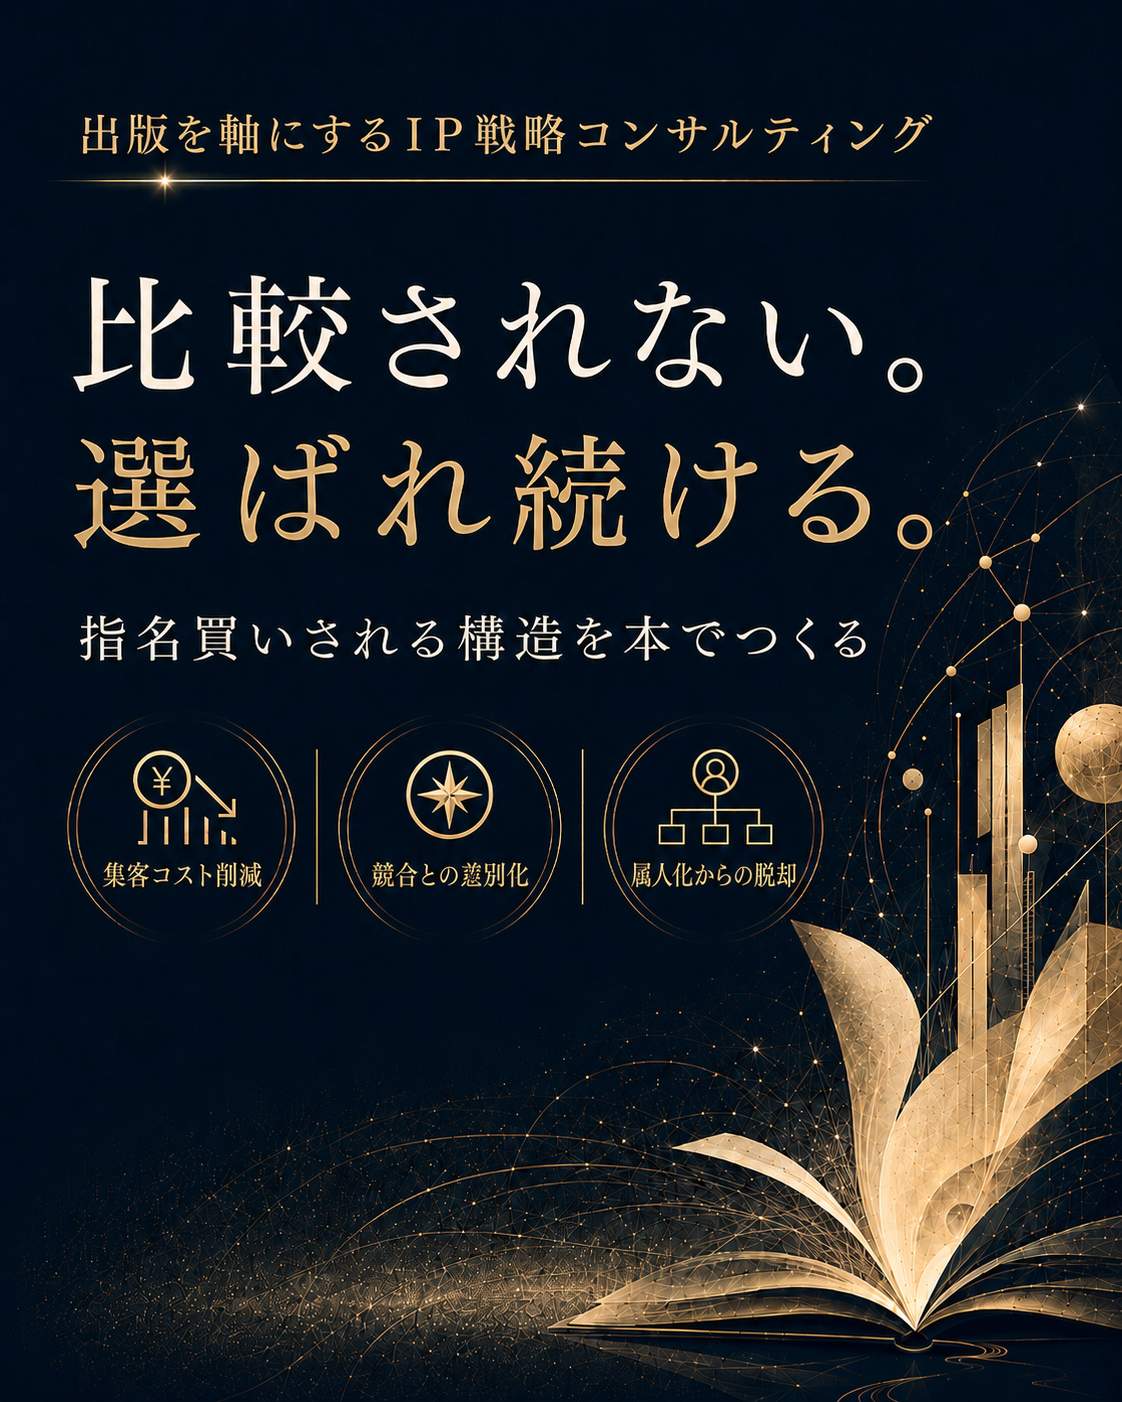
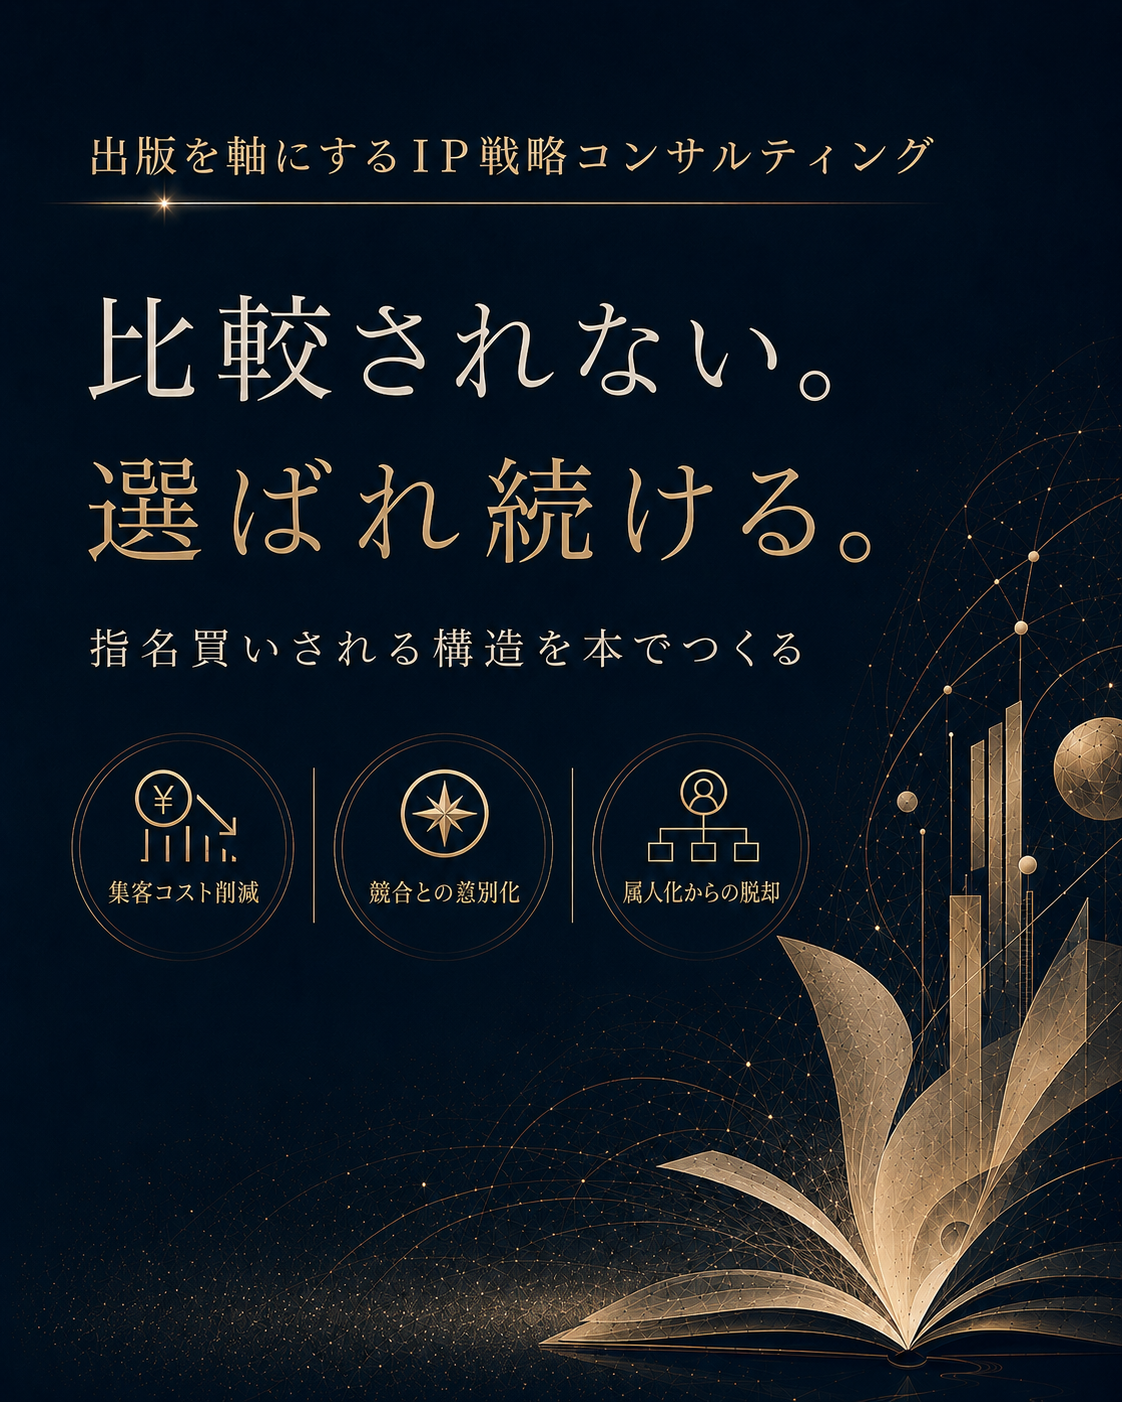
Replace v11 hero image and tighten spacing further

diff --git a/v11/index.html b/v11/index.html
@@ -69,7 +69,7 @@
     /* ─── HOOK ─── */
     .sec-hook {
       background: var(--navy-mid);
-      padding: 28px 28px 56px;
+      padding: 12px 28px 56px;
     }
     .hook-title {
       font-family: 'Noto Serif JP', serif;
@@ -744,7 +744,7 @@
 
 <!-- HERO -->
 <div class="hero">
-  <img src="hero.png?v=2" alt="比較されない。選ばれ続ける。｜新流舎 出版IPプロデュース">
+  <img src="hero.png?v=3" alt="比較されない。選ばれ続ける。｜新流舎 出版IPプロデュース">
 </div>
 
 <!-- HOOK -->
